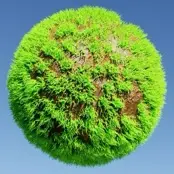
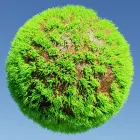
Optimize assets

diff --git a/website/layouts/index.html b/website/layouts/index.html
@@ -25,16 +25,21 @@
   </nav>
 </section>
 
-<section aria-label="Local Clubs and Teams" class="py-8">
-  <h2 class="text-lg text-stone-600 font-semibold text-stone-800">Local happenings by these good folks</h2>
-  <p class="block text-sm">(and many others)</p>
-  <div class="grid grid-cols-5 sm:grid-cols-7 gap-2 mt-6">
+<section aria-label="Local Clubs and Teams" class="pt-12">
+  <h2 class="text-lg font-semibold text-stone-800">Local happenings by these good folks</h2>
+  <p class="block text-sm">and many others!</p>
+  <div class="grid grid-cols-6 sm:grid-cols-7 gap-1 sm:gap-2 mt-6">
     {{ range .Site.Data.clubs.groups }}
       {{ $image := resources.Get (printf "club-images/%s" .image) }}
-      <div class="flex flex-col items-center text-center">
-        <img src="{{ $image.RelPermalink }}" alt="{{ .name }}" class="w-full aspect-square object-cover rounded-md grayscale-80 hover:grayscale-0">
+      <div>
+        <img src="{{ $image.RelPermalink }}" alt="{{ .name }}" class="w-full h-full object-contain rounded-full hover:grayscale-0 border border-stone-300 bg-white">
       </div>
     {{ end }}
   </div>
+</section>
+
+<section aria-label="about" class="pt-12">
+  <h2 class="text-lg font-semibold text-stone-800">About this page</h2>
+  <p>This page is focused on group rides, races, alley cats, and bike polo within the Twin Cities. For greater Minnesota, check out <a class="text-blue-700 underline" href="https://www.bikemn.org/all-events/">BikeMN</a>. You can get in touch with us at <a href="mailto:minneapoliscyclingcalendar@gmail.com" class="text-blue-700 underline">minneapoliscyclingcalendar@gmail.com</a> or by DM on <a class="text-blue-700 underline" href="https://www.instagram.com/fastcasualmpls/">Instagram</a>.</p>
 </section>
 {{ end }}
